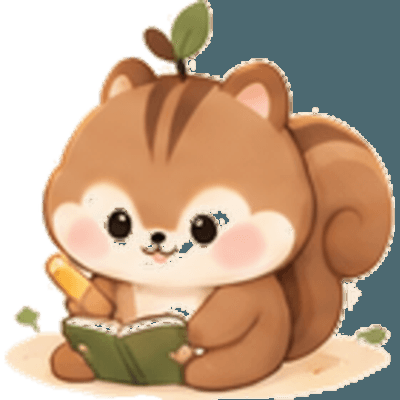
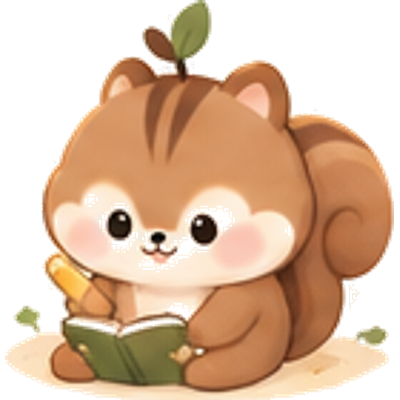
다크모드 배경 마스코트 제거, 라이트모드는 원래대로 되돌림
여러 차례 다크모드 렌더링 결함을 고쳐봤지만 만족스럽지 않아, 그림 파일과
컴포넌트를 세션 시작 전 상태로 되돌렸다. 대신 다크 모드에서는
BackgroundMascot이 아예 아무것도 그리지 않도록만 바꿨다 — 라이트 모드는
opacity 0.2의 원래 동작 그대로.

diff --git a/src/components/BackgroundMascot.tsx b/src/components/BackgroundMascot.tsx
@@ -1,43 +1,29 @@
-import { View, Image, StyleSheet, ImageSourcePropType } from 'react-native';
-import { colors, getIsDarkMode } from '../constants/theme';
+import { Image, StyleSheet, ImageSourcePropType } from 'react-native';
+import { getIsDarkMode } from '../constants/theme';
 
 interface Props {
   source: ImageSourcePropType;
 }
 
 const SIZE = 150;
-const isDark = getIsDarkMode();
 
-// 그림 안쪽에 반투명한 부분(볼터치·하이라이트처럼 부드럽게 녹아드는 채색)이 있는데,
-// 흰/크림 배경에서는 배경과 자연스럽게 섞여 보이던 게 어두운 배경 위에서는 그 자리가
-// 뚫린 것처럼 보였다. scripts/close-mascot-holes.js로 에셋 자체의 알파를 채워 대부분
-// 해결했지만, 눈매처럼 원래도 짙은 남색 계열 선화는 알파가 아니라 색 자체가 어두워서
-// (완전 불투명) 검은 배경과 명암 대비가 낮아 여전히 흐릿하게 보인다.
-// 이건 그림을 더 손봐서 고칠 문제가 아니라 배경 쪽에서 대비를 만들어줘야 하는
-// 문제라, 다크 모드에서는 은은한 원형 글로우를 깔아 그 위에서 선화가 읽히게 한다.
-const OPACITY = isDark ? 1 : 0.2;
-
+// 각 화면 콘텐츠 맨 아래 여백에 놓이는 새미 장식.
+// 모든 화면에서 동일한 정사각 규격(400x400 투명 배경 에셋)을 같은 크기로 렌더링해
+// 화면마다 크기나 여백이 달라 보이지 않게 한다.
+// 다크 모드에서는 그림 자체의 알파 결함 때문에 뭉개져 보이는 문제를 깔끔하게
+// 고치지 못해, 일단 다크 모드에서는 아예 보여주지 않는다.
 export default function BackgroundMascot({ source }: Props) {
-  return (
-    <View style={styles.wrapper}>
-      {isDark && <View style={styles.glow} />}
-      <Image source={source} style={[styles.image, { opacity: OPACITY }]} resizeMode="contain" />
-    </View>
-  );
+  if (getIsDarkMode()) return null;
+  return <Image source={source} style={styles.image} resizeMode="contain" />;
 }
 
 const styles = StyleSheet.create({
-  wrapper: { alignItems: 'center', justifyContent: 'center', marginTop: 28, marginBottom: 4 },
-  glow: {
-    position: 'absolute',
-    width: SIZE * 0.85,
-    height: SIZE * 0.85,
-    borderRadius: SIZE,
-    backgroundColor: colors.accent,
-    opacity: 0.16,
-  },
   image: {
     width: SIZE,
     height: SIZE,
+    alignSelf: 'center',
+    marginTop: 28,
+    marginBottom: 4,
+    opacity: 0.2,
   },
 });
